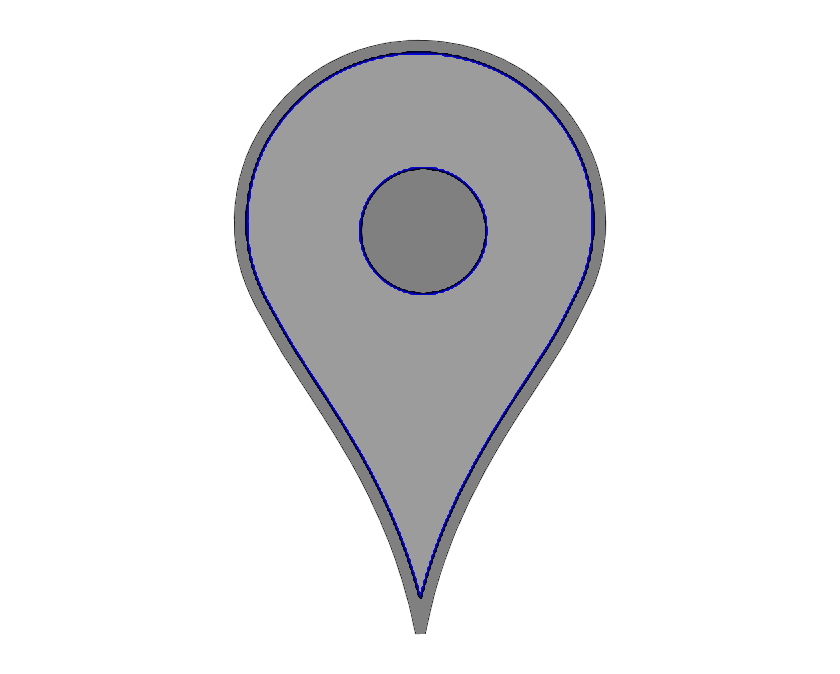
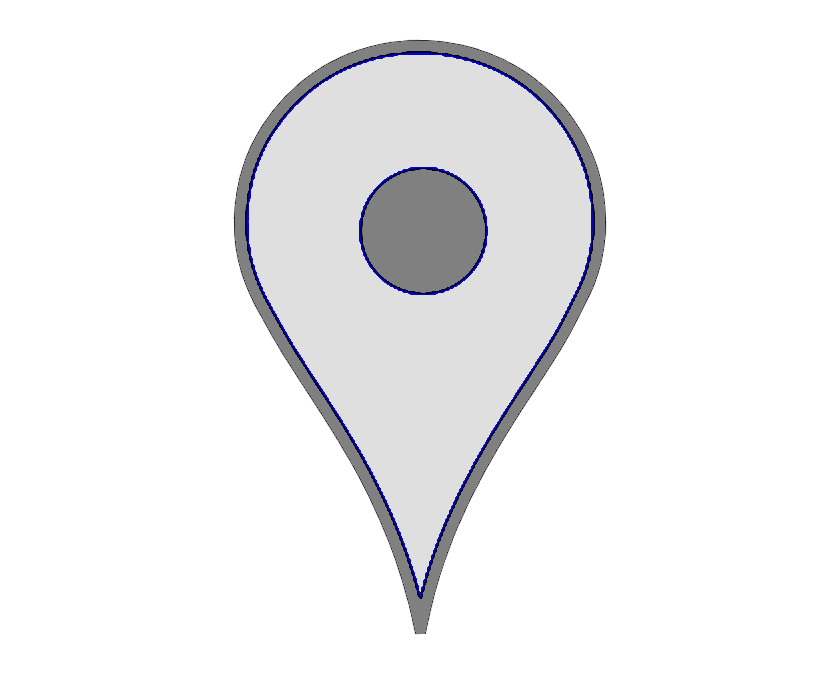
Colored markers and calculateWQI

Changed region(s): [[0.2786, 0.0623, 0.7119, 0.8724]]

diff --git a/src/components/MeasureForm.jsx b/src/components/MeasureForm.jsx
@@ -6,10 +6,11 @@ import storageService from "../appwrite/storage.js"
 import databaseService from "../appwrite/database.js"
 import { useSelector } from "react-redux";
 import { useNavigate } from "react-router-dom";
-import { APIProvider, Map, Marker, useMarkerRef } from '@vis.gl/react-google-maps';
+import { AdvancedMarker, APIProvider, Map, Marker, useMarkerRef } from '@vis.gl/react-google-maps';
 import conf from "../conf/conf.js";
 import { removeTimeZone } from "../utils/date.js";
 import { Link } from "react-router-dom";
+import { calculateWQI, getMarkerColor } from "../utils/wqi.js";
 
 const defaultLatitude = conf.defaultLatitude;
 const defaultLongitude = conf.defaultLongitude;
@@ -89,13 +90,15 @@ export default function MeasureForm({ measure }) {
 
 
     const submit = async (data) => {
-
+        let file = null;
         if (measure) {
-            const file = data.image[0] ? await storageService.uploadImage(data.image[0]) : null;
-            if (file) {
-                storageService.deleteImage(measure.imageId);
+            if (data.image) {
+                file = data.image[0] ? await storageService.uploadImage(data.image[0]) : null;
+                if (file) {
+                    storageService.deleteImage(measure.imageId);
+                }
             }
-            const dbMeasure = await databaseService.updateMeasure(measure.$id, { ...data, imageId: file ? file.$id : undefined });
+            const dbMeasure = await databaseService.updateMeasure(measure.$id, { ...data, imageId: file ? file.$id : measure.imageId });
             if (dbMeasure) {
                 navigate(`/measures`)
             }
@@ -112,12 +115,15 @@ export default function MeasureForm({ measure }) {
 
     }
 
+    const [wqi, wqiText] = calculateWQI(measure);
+    const imageName = '../../public/' + getMarkerColor(measure);
+
     return (
         <>
             <div className="w-full">
                 <div className="w-full h-48 px-2" >
                     <APIProvider apiKey={conf.googleMapsAPIKey}>
-                        <Map
+                        <Map mapId={'bf51a910020fa25b'}
                             zoom={8}
                             center={centerPosition}
                             gestureHandling={'greedy'}
@@ -131,9 +137,13 @@ export default function MeasureForm({ measure }) {
                                     setMarkerPosition({ lat: ev.detail.latLng.lat, lng: ev.detail.latLng.lng })
                                     //console.log(marker.position.lat)
                                 }
-                            }}
-                        >
-                            <Marker ref={markerRef} clickable={true} position={markerPosition} />
+                            }}>
+                            {/* <Marker ref={markerRef} clickable={true} position={markerPosition}>
+                                <img src={getMarkerColor(measure)} className="w-10" title={wqiText} />
+                            </Marker> */}
+                            <AdvancedMarker position={markerPosition}>
+                                <img src={imageName} className="w-10" title={wqiText} />
+                            </AdvancedMarker>
                         </Map>
                     </APIProvider>
                 </div>

diff --git a/src/utils/wqi.js b/src/utils/wqi.js
@@ -1,21 +1,81 @@
-const cleanWQIThreshold = 5
+const TDS_levels = [
+    {
+        min: 0,
+        max: 9,
+        level: 5,
+        description: 'Pure water'
+    },
+    {
+        min: 10,
+        max: 60,
+        level: 4,
+        description: 'Mountain spring'
+    },
+    {
+        min: 61,
+        max: 100,
+        level: 3,
+        description: 'Purified'
+    },
+    {
+        min: 101,
+        max: 300,
+        level: 2,
+        description: 'Tap'
+    },
+    {
+        min: 300,
+        max: 9999,
+        level: 1,
+        description: 'Super polluted'
+    }
+]
+
 
 function calculateWQI(measure) {
-    return -1;
+
+    let wqi = 0;
+    let wqiText = 'Not available';
+    if (measure?.totalDissolvedSolids) {
+        TDS_levels.forEach(element => {
+            if (measure.totalDissolvedSolids >= element.min && measure.totalDissolvedSolids <= element.max) {                
+                wqi = element.level;
+                wqiText = element.description;
+            }
+        });
+    }
+    return [wqi, wqiText];
 }
 
 function getMarkerColor(measure) {
-    const wqi = calculateWQI(measure);
+    const [wqi, wqiText] = calculateWQI(measure);
+    console.log('Calculated WQI: ' + wqi)
+    switch (wqi) {
+        case 0:
+            return 'markerGray.png';
 
-    if (wqi == -1) {
-        return 'markerGray.png';
-    } else {
-        return wqi > cleanWQIThreshold ? 'markerBlue.png' : 'markerBrown.png';
+        case 1:
+            return 'markerBrown.png';
+
+        case 2:
+            return 'markerRed.png';
+
+        case 3:
+            return 'markerYellow.png';
+
+        case 4:
+            return 'markerGreen.png'
+
+        case 5:
+            return 'markerBlue.png';
+
+        default:
+            return 'markerGray.png'
+
     }
 }
 
 export {
     calculateWQI,
-    cleanWQIThreshold,
     getMarkerColor
 }

diff --git a/src/components/MeasureGroupCard.jsx b/src/components/MeasureGroupCard.jsx
@@ -13,22 +13,22 @@ function MeasureGroupCard({ measureGroup, onDelete }) {
     return (
         <>
             <div className='w-full bg-gray-400 rounded-xl p-4 h-80'>
-                <Link to={`/measureGroup/${measureGroup.$id}`}>
+                <Link to={`/measureGroup/${measureGroup?.$id}`}>
 
                     <div className='w-full justify-center mb-4 h-36'>
-                        <img src={StorageService.getPreviewImageUrl(measureGroup.imageId)} alt={measureGroup.description} className='rounded-xl h-36 object-fill w-full' />
+                        <img src={StorageService.getPreviewImageUrl(measureGroup?.imageId)} alt={measureGroup?.description} className='rounded-xl h-36 object-fill w-full' />
                     </div>
                     <div className='min-h-14'>
-                        <label className='text-xl font-bold'>{measureGroup.description}</label><br />
+                        <label className='text-xl font-bold'>{measureGroup?.description}</label><br />
                     </div>
                     <div className='min-h-14 grid grid-cols-5'>
-                        <label className='text-4xl font-bold col-span-4 text-right'>{measureGroup.measures.length}</label>
+                        <label className='text-4xl font-bold col-span-4 text-right'>{measureGroup?.measures.length}</label>
                         <div className=''>
                             <img src='multiplemarker.png' />
-                        </div>
+                        </div>                        
                     </div>
                 </Link>
-                {userData.$id === measureGroup.userId && (
+                {userData.$id === measureGroup?.userId && (
                     <div className='text-left'>
                         <Link className='font-bold underline' onClick={handleDelete}>Delete</Link>
                     </div>

diff --git a/src/components/MeasureMarker.jsx b/src/components/MeasureMarker.jsx
@@ -2,14 +2,14 @@ import React, { useState } from 'react';
 import { AdvancedMarker, InfoWindow, useAdvancedMarkerRef } from '@vis.gl/react-google-maps';
 import { formatDateTime } from '../utils/date';
 import { Link } from 'react-router-dom';
-import { calculateWQI, cleanWQIThreshold } from '../utils/wqi'
+import { calculateWQI, getMarkerColor } from '../utils/wqi'
 
 const MeasureMarker = ({ measure }) => {
 
     const [infowindowOpen, setInfowindowOpen] = useState(false);
     const [markerRef, marker] = useAdvancedMarkerRef();
 
-    const wqi = calculateWQI(measure);
+    const [wqi, wqiText] = calculateWQI(measure);
 
     return (
         <>
@@ -18,7 +18,7 @@ const MeasureMarker = ({ measure }) => {
                 onClick={() => setInfowindowOpen(true)}
                 position={{ lat: measure.latitude, lng: measure.longitude }}
                 title={measure.placeDescription}>
-                    <img src={ wqi > cleanWQIThreshold ? 'markerBlue.png' : (wqi >= 0 ? 'markerBrown.png' : 'markerGray.png')} className="w-10" />
+                    <img src={ getMarkerColor(measure)} className="w-10" title={wqiText} />
             </AdvancedMarker>
             {infowindowOpen && (
                 <InfoWindow

diff --git a/src/components/MeasureCard.jsx b/src/components/MeasureCard.jsx
@@ -3,7 +3,7 @@ import { Link } from 'react-router-dom'
 import StorageService from '../appwrite/storage.js'
 import { formatDateTime } from '../utils/date.js'
 import { useSelector } from "react-redux";
-import { calculateWQI, cleanWQIThreshold, getMarkerColor } from '../utils/wqi.js';
+import { calculateWQI, getMarkerColor } from '../utils/wqi.js';
 
 function MeasureCard({ measure, onDelete }) {
 
@@ -13,7 +13,7 @@ function MeasureCard({ measure, onDelete }) {
 
   const userData = useSelector((state) => state.auth.userData)
 
-  const wqi = calculateWQI(measure);
+  const [wqi, wqiText] = calculateWQI(measure);
 
   return (
     <>
@@ -32,7 +32,7 @@ function MeasureCard({ measure, onDelete }) {
               <label className='text-sm font-light'>By {measure.userId}</label> <br />
             </div>
             <div className=''>
-              <img src={getMarkerColor(measure)} />
+              <img src={getMarkerColor(measure)} title={wqiText} />
             </div>
           </div>
 

diff --git a/src/pages/Measures.jsx b/src/pages/Measures.jsx
@@ -156,8 +156,7 @@ function Measures() {
             zoom={8}
             center={{ lat: defaultLatitude, lng: defaultLongitude }}
             gestureHandling={'greedy'}
-            disableDefaultUI={true}
-          >
+            disableDefaultUI={true}>
             {standaloneMeasures.current?.map((measure) => (
               <div className='p-2 w-1/4' key={measure.$id}>
                 <MeasureMarker measure={measure} clickable={true} />

diff --git a/src/components/MeasureGroupForm.jsx b/src/components/MeasureGroupForm.jsx
@@ -145,7 +145,7 @@ function MeasureGroupForm({ measureGroup }) {
           await databaseService.updateMeasure(m.$id, { ...m, imageId: dbMeasureGroup.imageId, latitude: dbMeasureGroup.latitude, longitude: dbMeasureGroup.longitude })
         });
 
-        navigate(`/measureGroups`)
+        navigate(`/measures`)
       }
     } else {
       const file = await storageService.uploadImage(data.image[0]);

diff --git a/src/components/Logo.jsx b/src/components/Logo.jsx
@@ -2,7 +2,7 @@ import React from 'react'
 
 function Logo({width = "100%"}) {
   return (
-    <img src='Logo.png' style={{width}} alt="Logo placeholder"/>
+    <img src='/Logo.png' style={{width}} alt="Logo placeholder"/>
   )
 }
 
